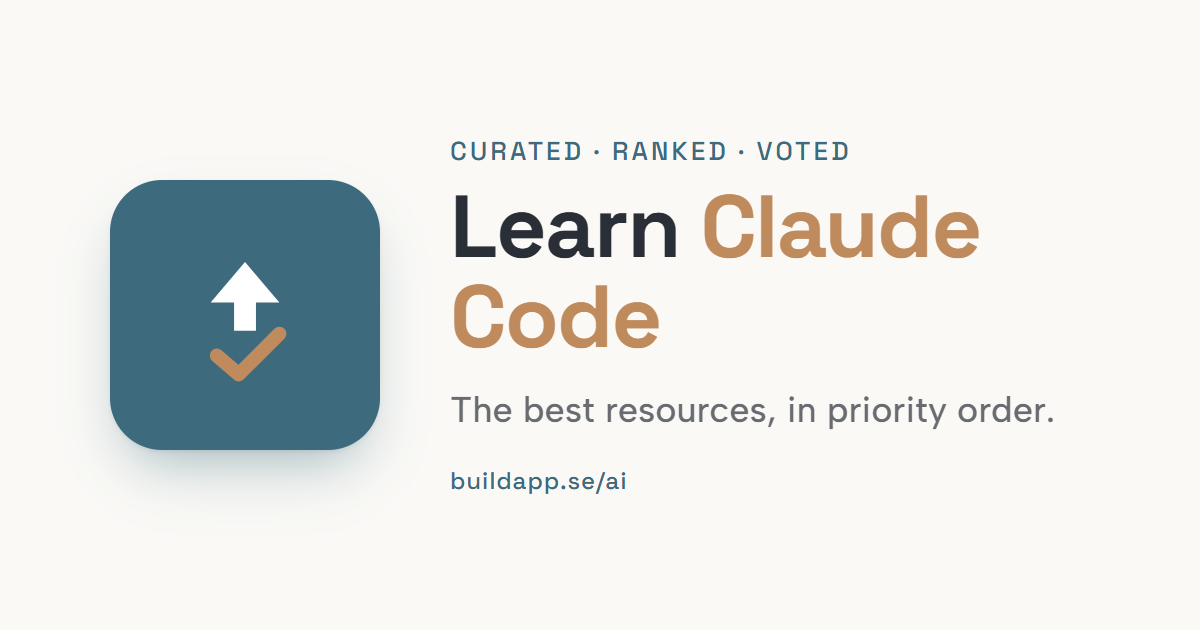
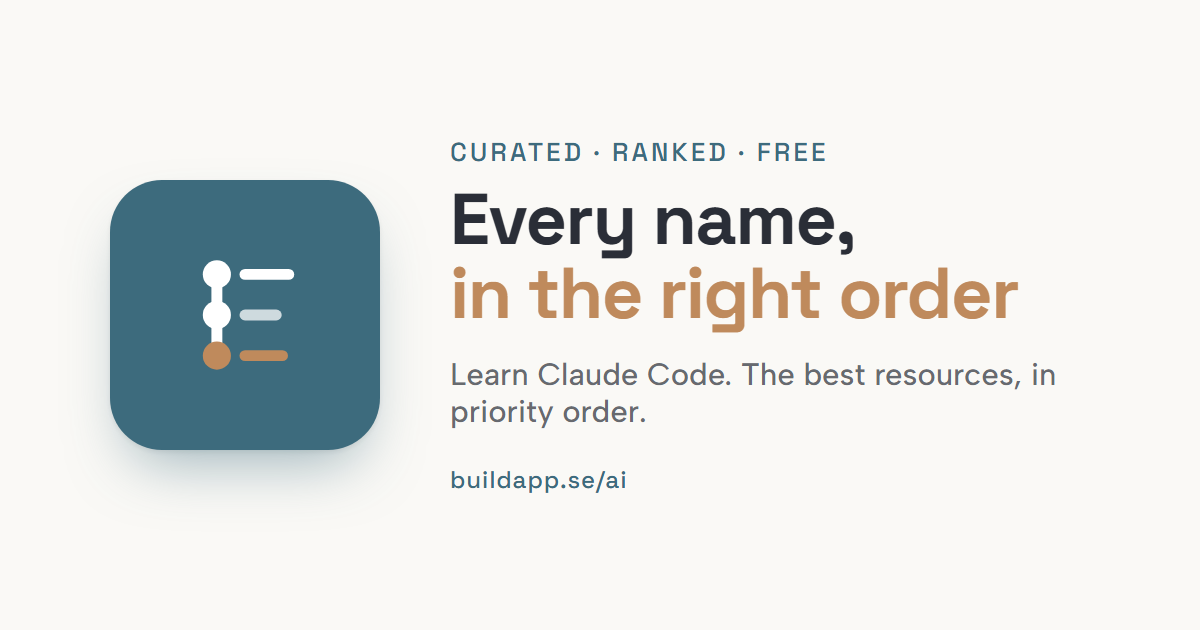
fix: og.png lovade rostning och avbockning som inte finns
Gamla bilden hade rostpil, bock och kickern Curated - Ranked - Voted.
Nu sidans faktiska rubrik och kartans ryggrad som marke. Renderings-
kommandot star i og.source.html.

diff --git a/og.source.html b/og.source.html
@@ -1,5 +1,8 @@
 <!DOCTYPE html>
-<!-- Source for /ai/og.png (1200x630). -->
+<!-- Source for /ai/og.png (1200x630).
+     Rendera om med:  npx playwright screenshot --viewport-size=1200,630 og.source.html og.png
+     Market ar kartans ryggrad, sidans signaturelement. Rostning och avbockning
+     togs bort 2026-08-27, sa varken pilen eller bocken far komma tillbaka hit. -->
 <html lang="en">
 <head>
 <meta charset="UTF-8">
@@ -19,25 +22,29 @@
   .copy{display:flex;flex-direction:column}
   .kicker{font-family:'Space Grotesk',sans-serif;font-weight:500;font-size:26px;letter-spacing:.12em;
     text-transform:uppercase;color:var(--petrol);margin-bottom:14px}
-  .title{font-family:'Space Grotesk',sans-serif;font-weight:700;font-size:88px;line-height:1.02;letter-spacing:-.02em;color:var(--fg)}
+  .title{font-family:'Space Grotesk',sans-serif;font-weight:700;font-size:72px;line-height:1.02;letter-spacing:-.02em;color:var(--fg)}
   .title em{font-style:normal;color:var(--lera)}
-  .tagline{font-size:36px;font-weight:500;color:var(--fg);opacity:.7;margin-top:26px}
+  .tagline{font-size:31px;font-weight:500;color:var(--fg);opacity:.7;margin-top:26px}
   .url{margin-top:34px;font-family:'Space Grotesk',sans-serif;font-weight:500;font-size:24px;letter-spacing:.04em;color:var(--petrol);text-transform:lowercase}
 </style>
 </head>
 <body>
   <div class="mark">
     <svg viewBox="0 0 96 96" xmlns="http://www.w3.org/2000/svg" fill="none">
-      <!-- vote chevron -->
-      <path d="M 48 14 L 70 40 H 55 V 58 H 41 V 40 H 26 Z" fill="#fff"/>
-      <!-- checked baseline -->
-      <path d="M 30 74 L 44 86 L 70 60" stroke="#BF8A5C" stroke-width="9" stroke-linecap="round" stroke-linejoin="round"/>
+      <!-- Kartans ryggrad: stationerna i ordning, uppifran och ner -->
+      <path d="M 30 20 V 76" stroke="#fff" stroke-width="7" stroke-linecap="round"/>
+      <circle cx="30" cy="22" r="9" fill="#fff"/>
+      <circle cx="30" cy="48" r="9" fill="#fff"/>
+      <circle cx="30" cy="74" r="9" fill="#BF8A5C"/>
+      <path d="M 48 22 H 76" stroke="#fff" stroke-width="7" stroke-linecap="round"/>
+      <path d="M 48 48 H 68" stroke="#fff" stroke-width="7" stroke-linecap="round" opacity=".75"/>
+      <path d="M 48 74 H 72" stroke="#BF8A5C" stroke-width="7" stroke-linecap="round"/>
     </svg>
   </div>
   <div class="copy">
-    <div class="kicker">Curated · Ranked · Voted</div>
-    <div class="title">Learn <em>Claude Code</em></div>
-    <div class="tagline">The best resources, in priority order.</div>
+    <div class="kicker">Curated · Ranked · Free</div>
+    <div class="title">Every name,<br><em>in the right order</em></div>
+    <div class="tagline">Learn Claude Code. The best resources, in priority order.</div>
     <div class="url">buildapp.se/ai</div>
   </div>
 </body>

diff --git a/HANDOFF.md b/HANDOFF.md
@@ -2,7 +2,7 @@
 schemaVersion: 1
 status: active
 currentGoal: Hålla AI-resurssidan aktuell och åtgärda de två kvarvarande resterna från flytten till buildapp.se
-nextAction: Rendera om og.png ur og.source.html, rubriken far inte langre namna omrostning. Besluta darefter om Cloudflare-workern och dess KV-data ska avvecklas, se BACKLOG.md
+nextAction: Besluta om Cloudflare-workern api.orgutveckling.se och dess KV-data ska avvecklas. Inget i index.html anropar den langre, men den ar fortfarande deployad. Se BACKLOG.md
 blockers: []
 reviewedAt: 2026-08-27
 ---
@@ -36,6 +36,9 @@ Code-listan med röstning. Arkitektur och designresonemang står i `PROJECT.md`.
   förslagen togs bort, eftersom 1.0 beskrev behandling som inte längre finns.
 - Sidfotslänk tillagd i `index.html`.
 - `contrast.test.js` grönt.
+- **`og.png` omgjord i samma pass.** Den visade röstpil, bock och kickern
+  "Curated · Ranked · Voted", vilket blev falskt när funktionerna togs bort.
+  Nu sidans faktiska rubrik och kartans ryggrad som märke.
 
 **Workern är kvar och fortfarande deployad.** Se `BACKLOG.md`, den behöver ett
 medvetet beslut om avveckling.

diff --git a/BACKLOG.md b/BACKLOG.md
@@ -2,9 +2,10 @@
 
 ## Rester från flytten till buildapp.se
 
-- [ ] Gör om `og.png`. Den visar gammal design och gammal rubrik, så delade länkar
-  ser fel ut. `og.source.html` finns i repot. **Notera:** rubriken får inte längre
-  nämna omröstning, den funktionen finns inte.
+- [x] `og.png` omgjord 2026-08-27. Rubriken är nu sidans faktiska, "Every name, in
+  the right order", och märket är kartans ryggrad. Den gamla bilden hade röstpil,
+  bock och kickern "Curated · Ranked · Voted", alltså tre påståenden om funktioner
+  som inte finns kvar. Renderingskommandot står i `og.source.html`.
 - [ ] Byt kontaktmailen från `kontakt@orgutveckling.se` i topbar och footer när en
   ny adress finns. Footern byggs i JS längst ner i `index.html`.
 
